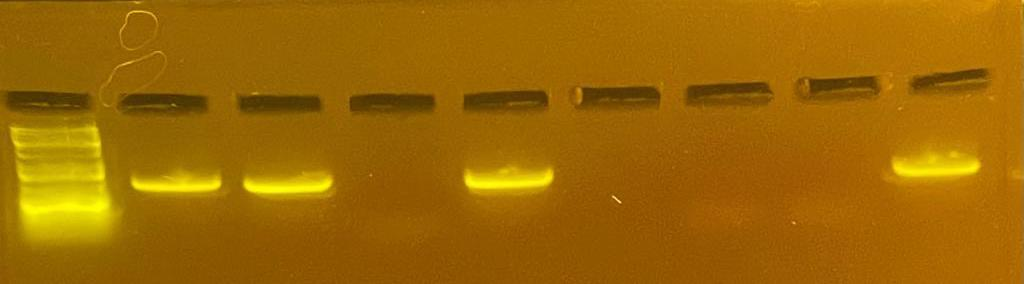
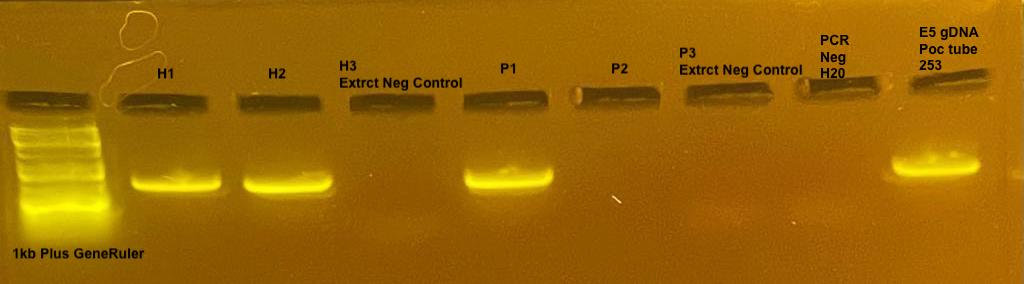
adding PCR results

diff --git a/_posts/2022-04-11-ChelexAndDirectAmp.md b/_posts/2022-04-11-ChelexAndDirectAmp.md
@@ -20,47 +20,6 @@ F170S PHIRE TISSUE DIRECT PCR Master Mix
 - F primer FastP6.1	(Added 50µl of stock 2mg/ml plus 950µl of DI water and made 3 aliquots of ~320µl each and stored in reagent box at -20)    
 - R primer RORF	(Added 50µl of stock 2mg/ml plus 950µl of DI water and made 3 aliquots of ~320µl each and stored in reagent box at -20)    
 
-# TESTING mtORF AMPLIFICATION DIRECT FROM CORAL SAMPLES
-
-##Phire Tag Mix Direct PCR
-
-####Master Mix:  
-
-Reagent | 1Rxn µl | 7 Rxn µl |   
----|---|---|---|   
-Phire Taq Mix 	|	7.5		|	52.5
-BSA	(0.25mg/ml)| NA |	NA
-F primer FastP6.1 (10µM) |	0.195|		1.365
-R primer RORF	(10µM)	|0.195	|1.365
-DNA	|Direct CLipping|Direct CLipping
-H2O |7.11	|	49.77
-Total volume 	|		15		|	105
-    
-Aliquot 13.5µl of master mix into each tube
-    
-    
-####Thermal Cycling Conditions   
-- [98°C 5 minutes] 1 cycle
-- [98°C 10 sec, 58°C 10 sec, 72°C 20 sec] 40 cycles
-- 72°C 1 minute 1 cycle
-- 15°C infinity
-* The protocol calls for 5 second steps, but the Bento Lab shortest step time is 10seconds
-
-####Samples
-1: Cl= Clip1   
-2: C2= Clip2   
-3: C3= Clip3   
-4: Neg= H2O   
-5: H1= Chelex 1   
-6: 253= gDNA 253 Poc from E5 Terpis    
-7: C4= Clip4 (Scrape w/pipette tip only)   
-
-1% TAE Gel
-
-
-
-
-
 
 # TESTING mtORF AMPLIFICATION OF CHELEX EXTRACTED DNA FROM 4/9/22
 #Dream Taq PCR Master Mix (2x)
@@ -99,4 +58,49 @@ _GEL_
 _DS x TAE_
 - 10ml TAE + 30ml DI Water H20
 
- 
+
+![DreamTaq PCR Results](https://github.com/hputnam/Putnam_Lab_Notebook/blob/master/images/20220411_DreamTaq_Gel.jpeg?raw=true)
+
+# TESTING mtORF AMPLIFICATION DIRECT FROM CORAL SAMPLES
+
+##Phire Tag Mix Direct PCR
+
+####Master Mix:  
+
+Reagent | 1Rxn µl | 7 Rxn µl |   
+---|---|---|---|   
+Phire Taq Mix 	|	7.5		|	52.5
+BSA	(0.25mg/ml)| NA |	NA
+F primer FastP6.1 (10µM) |	0.195|		1.365
+R primer RORF	(10µM)	|0.195	|1.365
+DNA	|Direct CLipping|Direct CLipping
+H2O |7.11	|	49.77
+Total volume 	|		15		|	105
+    
+Aliquot 13.5µl of master mix into each tube
+    
+    
+####Thermal Cycling Conditions   
+- [98°C 5 minutes] 1 cycle
+- [98°C 10 sec, 58°C 10 sec, 72°C 20 sec] 40 cycles
+- 72°C 1 minute 1 cycle
+- 15°C infinity
+* The protocol calls for 5 second steps, but the Bento Lab shortest step time is 10seconds
+
+####Samples
+1: Cl= Clip1   
+2: C2= Clip2   
+3: C3= Clip3   
+4: Neg= H2O   
+5: H1= Chelex 1   
+6: 253= gDNA 253 Poc from E5 Terpis    
+7: C4= Clip4 (Scrape w/pipette tip only)   
+8: P2 from above run again
+
+1% TAE Gel
+
+![Phire Direct PCR Results](https://github.com/hputnam/Putnam_Lab_Notebook/blob/master/images/20220411_DreamTaq_Gel.jpeg?raw=true)
+
+
+
+
